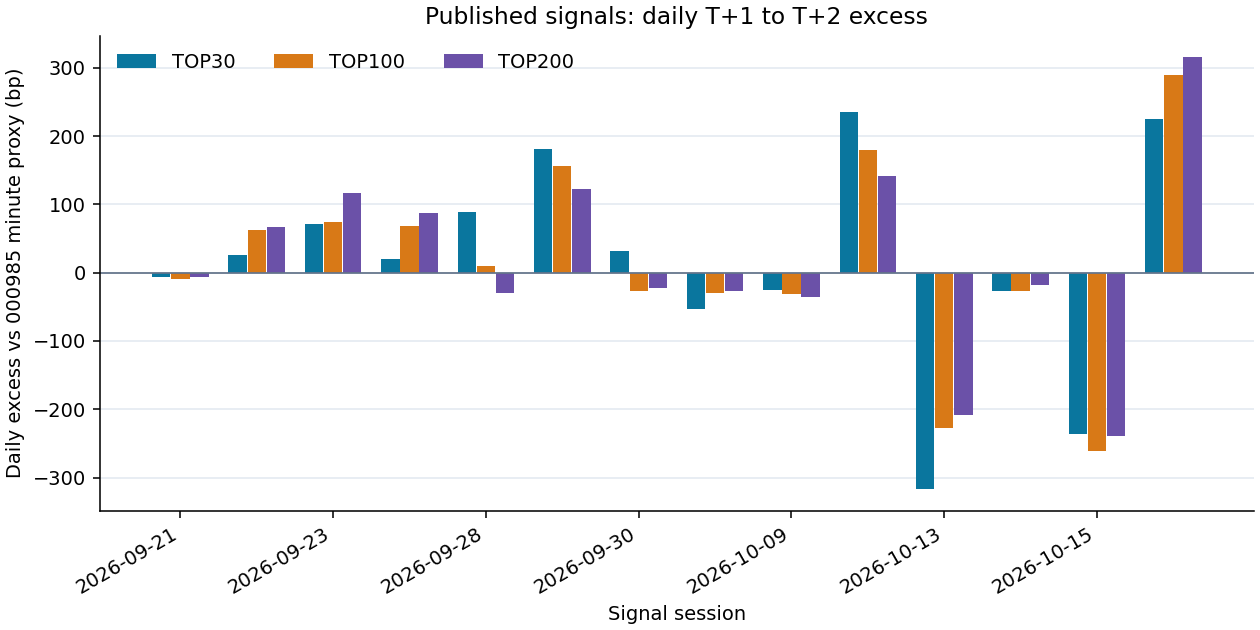
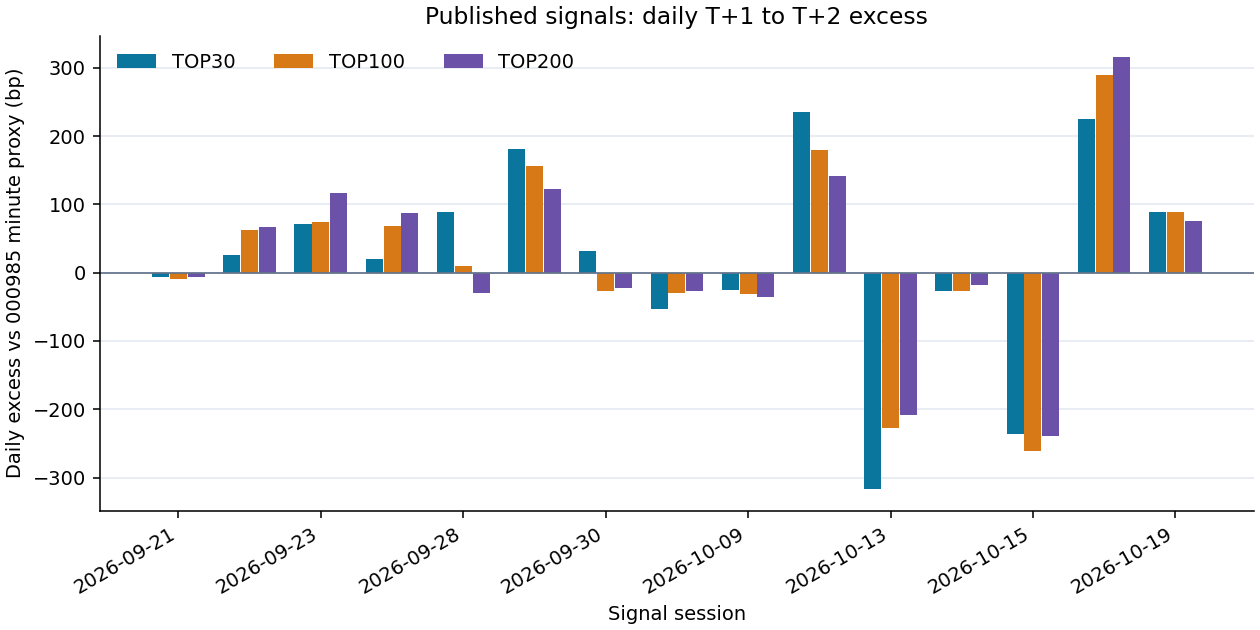
Update published signal performance through 2026-10-21

diff --git a/README.md b/README.md
@@ -17,13 +17,13 @@ CSV 编码为 UTF-8 BOM，按 `signal` 降序排列。
 <!-- PUBLIC_PERFORMANCE_START -->
 ## 已发布信号的历史表现
 
-仅统计本仓库 `signals/YYYY-MM-DD.csv` 已上传且买卖两日行情均完整的信号；截至 **2026-10-20**，共有 **14** 个已完成信号日，另有 **2** 个待结算或数据未齐。样本很短，暂无统计显著性结论。
+仅统计本仓库 `signals/YYYY-MM-DD.csv` 已上传且买卖两日行情均完整的信号；截至 **2026-10-21**，共有 **15** 个已完成信号日，另有 **2** 个待结算或数据未齐。样本很短，暂无统计显著性结论。
 
 | 组合 | 已完成信号日 | 组合累计收益 | 000985同期收益 | 累计超额 |
 |---|---:|---:|---:|---:|
-| TOP30 | 14 | -9.40% | -11.08% | +1.88% |
-| TOP100 | 14 | -9.22% | -11.08% | +2.09% |
-| TOP200 | 14 | -8.86% | -11.08% | +2.49% |
+| TOP30 | 15 | -8.24% | -10.72% | +2.78% |
+| TOP100 | 15 | -8.05% | -10.72% | +3.00% |
+| TOP200 | 15 | -7.81% | -10.72% | +3.26% |
 
 ![TOP30、TOP100、TOP200 累计超额净值](performance/excess_nav.png)
 
@@ -33,7 +33,6 @@ CSV 编码为 UTF-8 BOM，按 `signal` 降序排列。
 
 | 信号日 | 卖出日 | TOP30 | TOP100 | TOP200 |
 |---|---|---:|---:|---:|
-| 2026-09-28 | 2026-09-30 | +88.88 | +10.33 | -29.04 |
 | 2026-09-29 | 2026-10-08 | +180.63 | +156.52 | +121.89 |
 | 2026-09-30 | 2026-10-09 | +31.18 | -27.33 | -22.80 |
 | 2026-10-08 | 2026-10-12 | -53.19 | -30.43 | -27.09 |
@@ -43,6 +42,7 @@ CSV 编码为 UTF-8 BOM，按 `signal` 降序排列。
 | 2026-10-14 | 2026-10-16 | -26.70 | -26.79 | -18.05 |
 | 2026-10-15 | 2026-10-19 | -236.30 | -261.74 | -239.53 |
 | 2026-10-16 | 2026-10-20 | +224.57 | +290.26 | +315.78 |
+| 2026-10-19 | 2026-10-21 | +88.42 | +88.98 | +75.06 |
 
 ![TOP30、TOP100、TOP200 逐日超额](performance/daily_excess.png)
 
